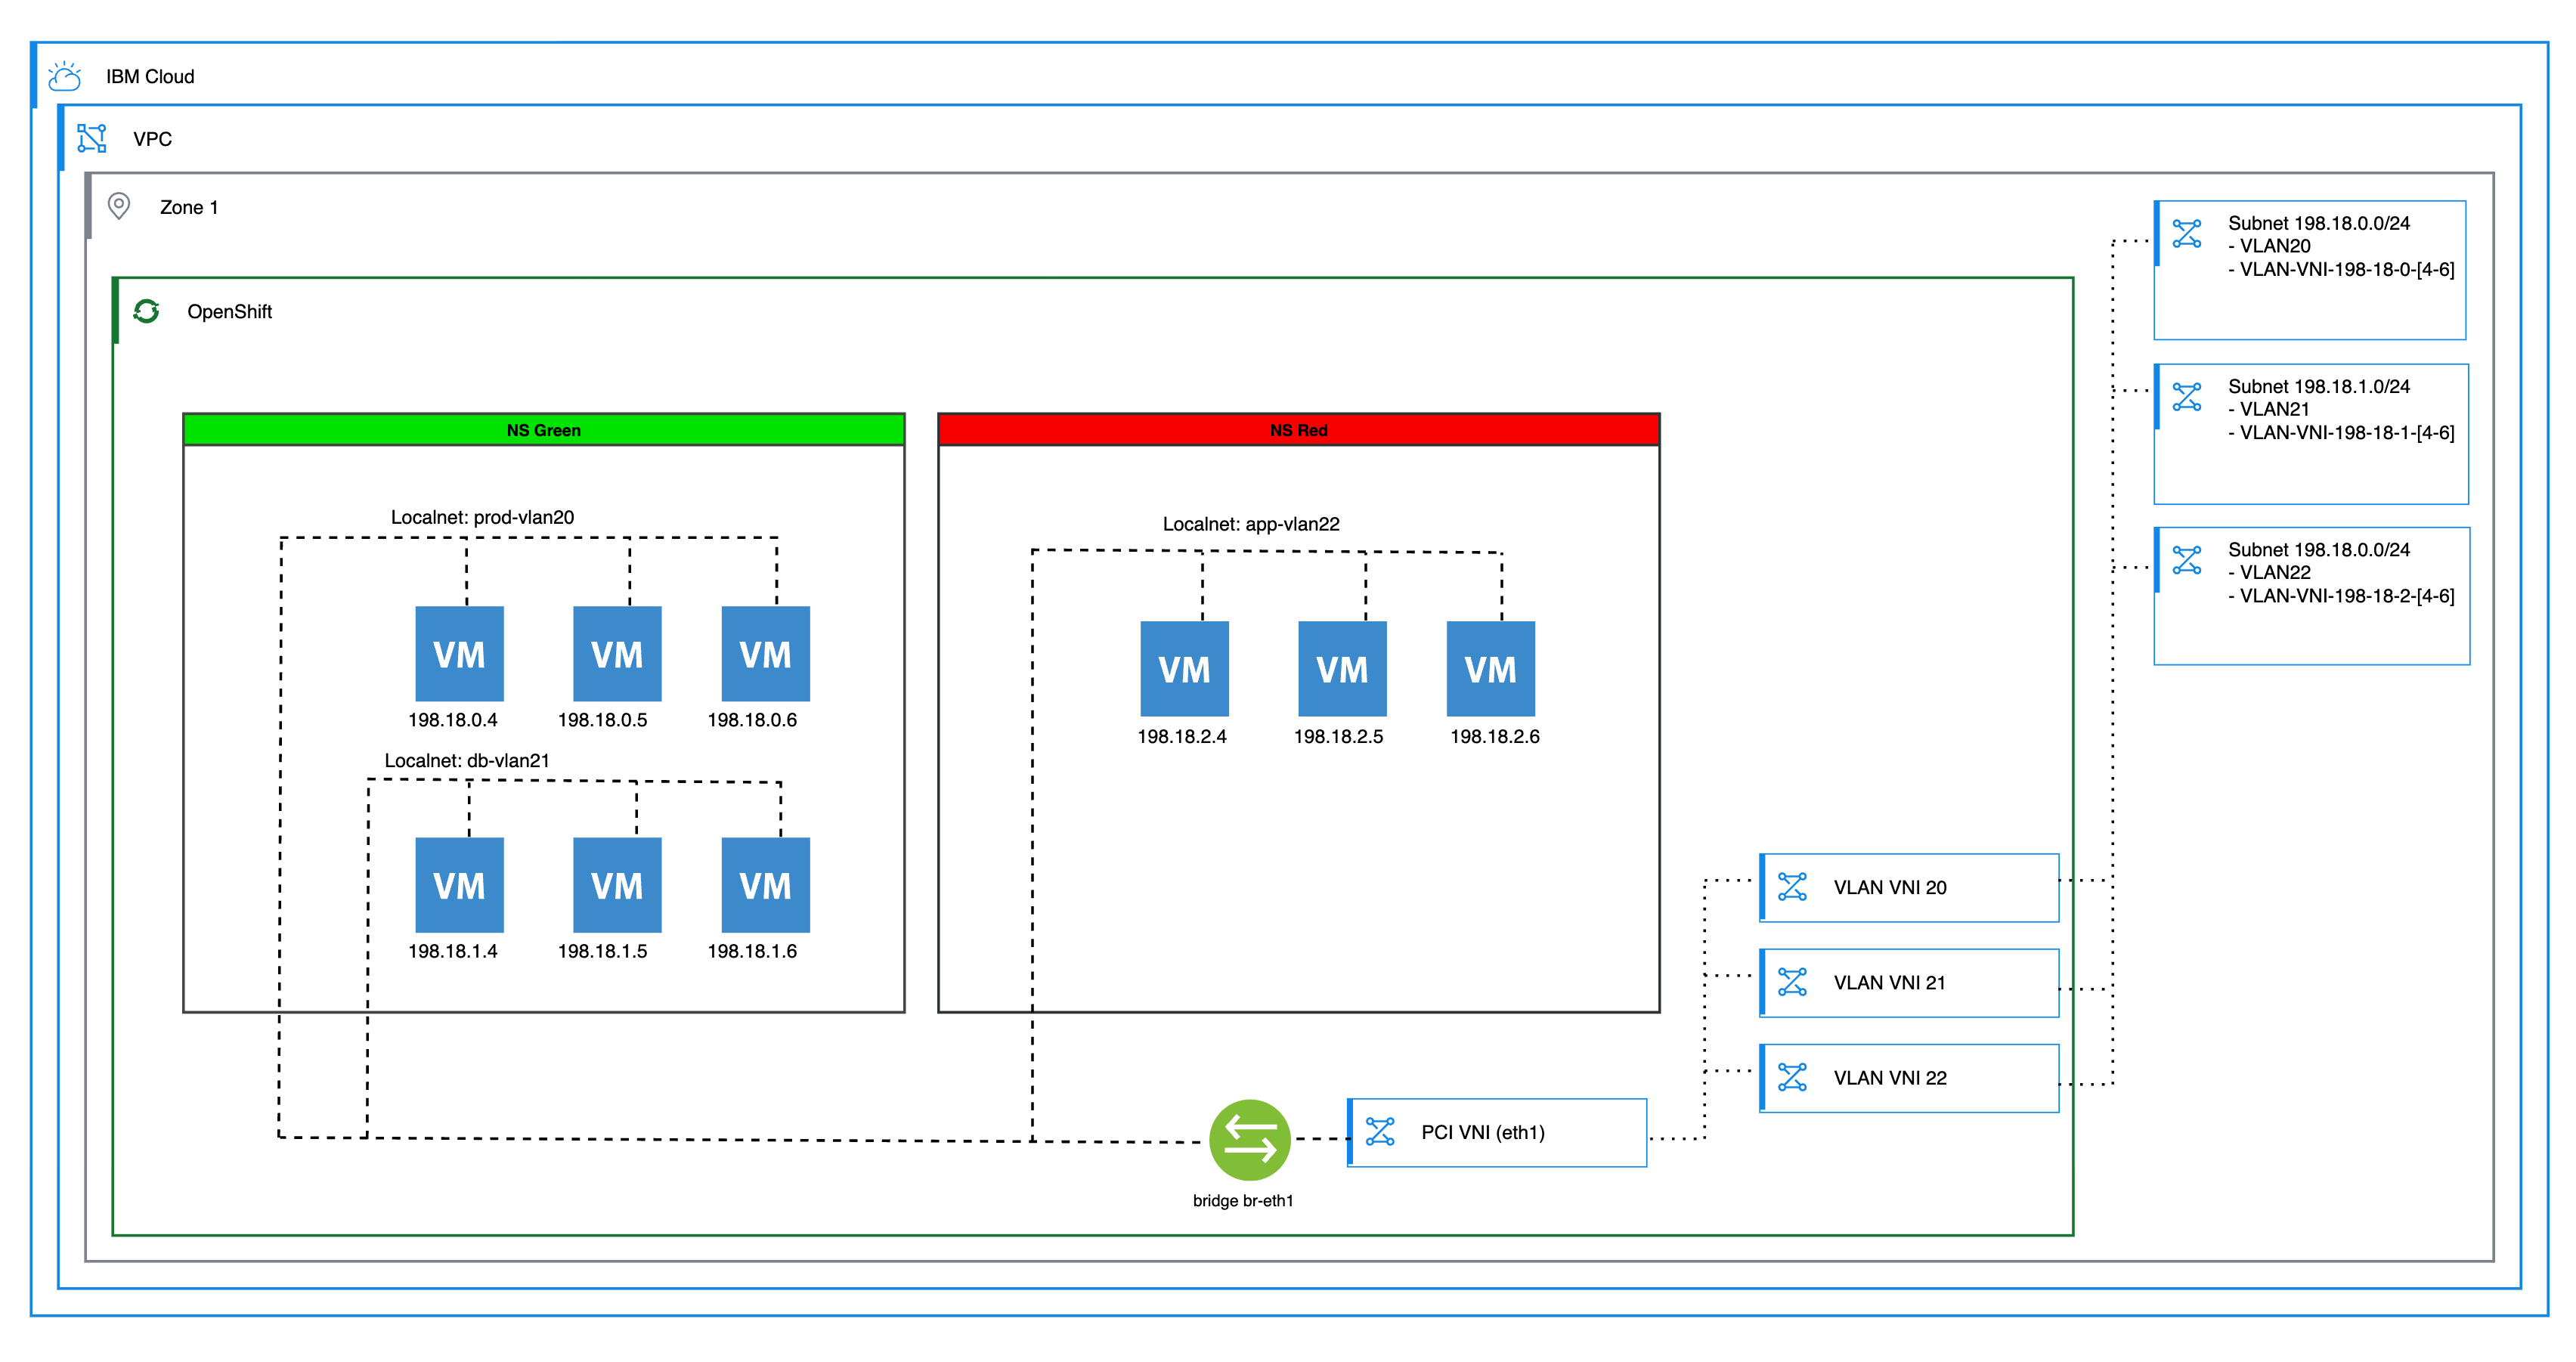
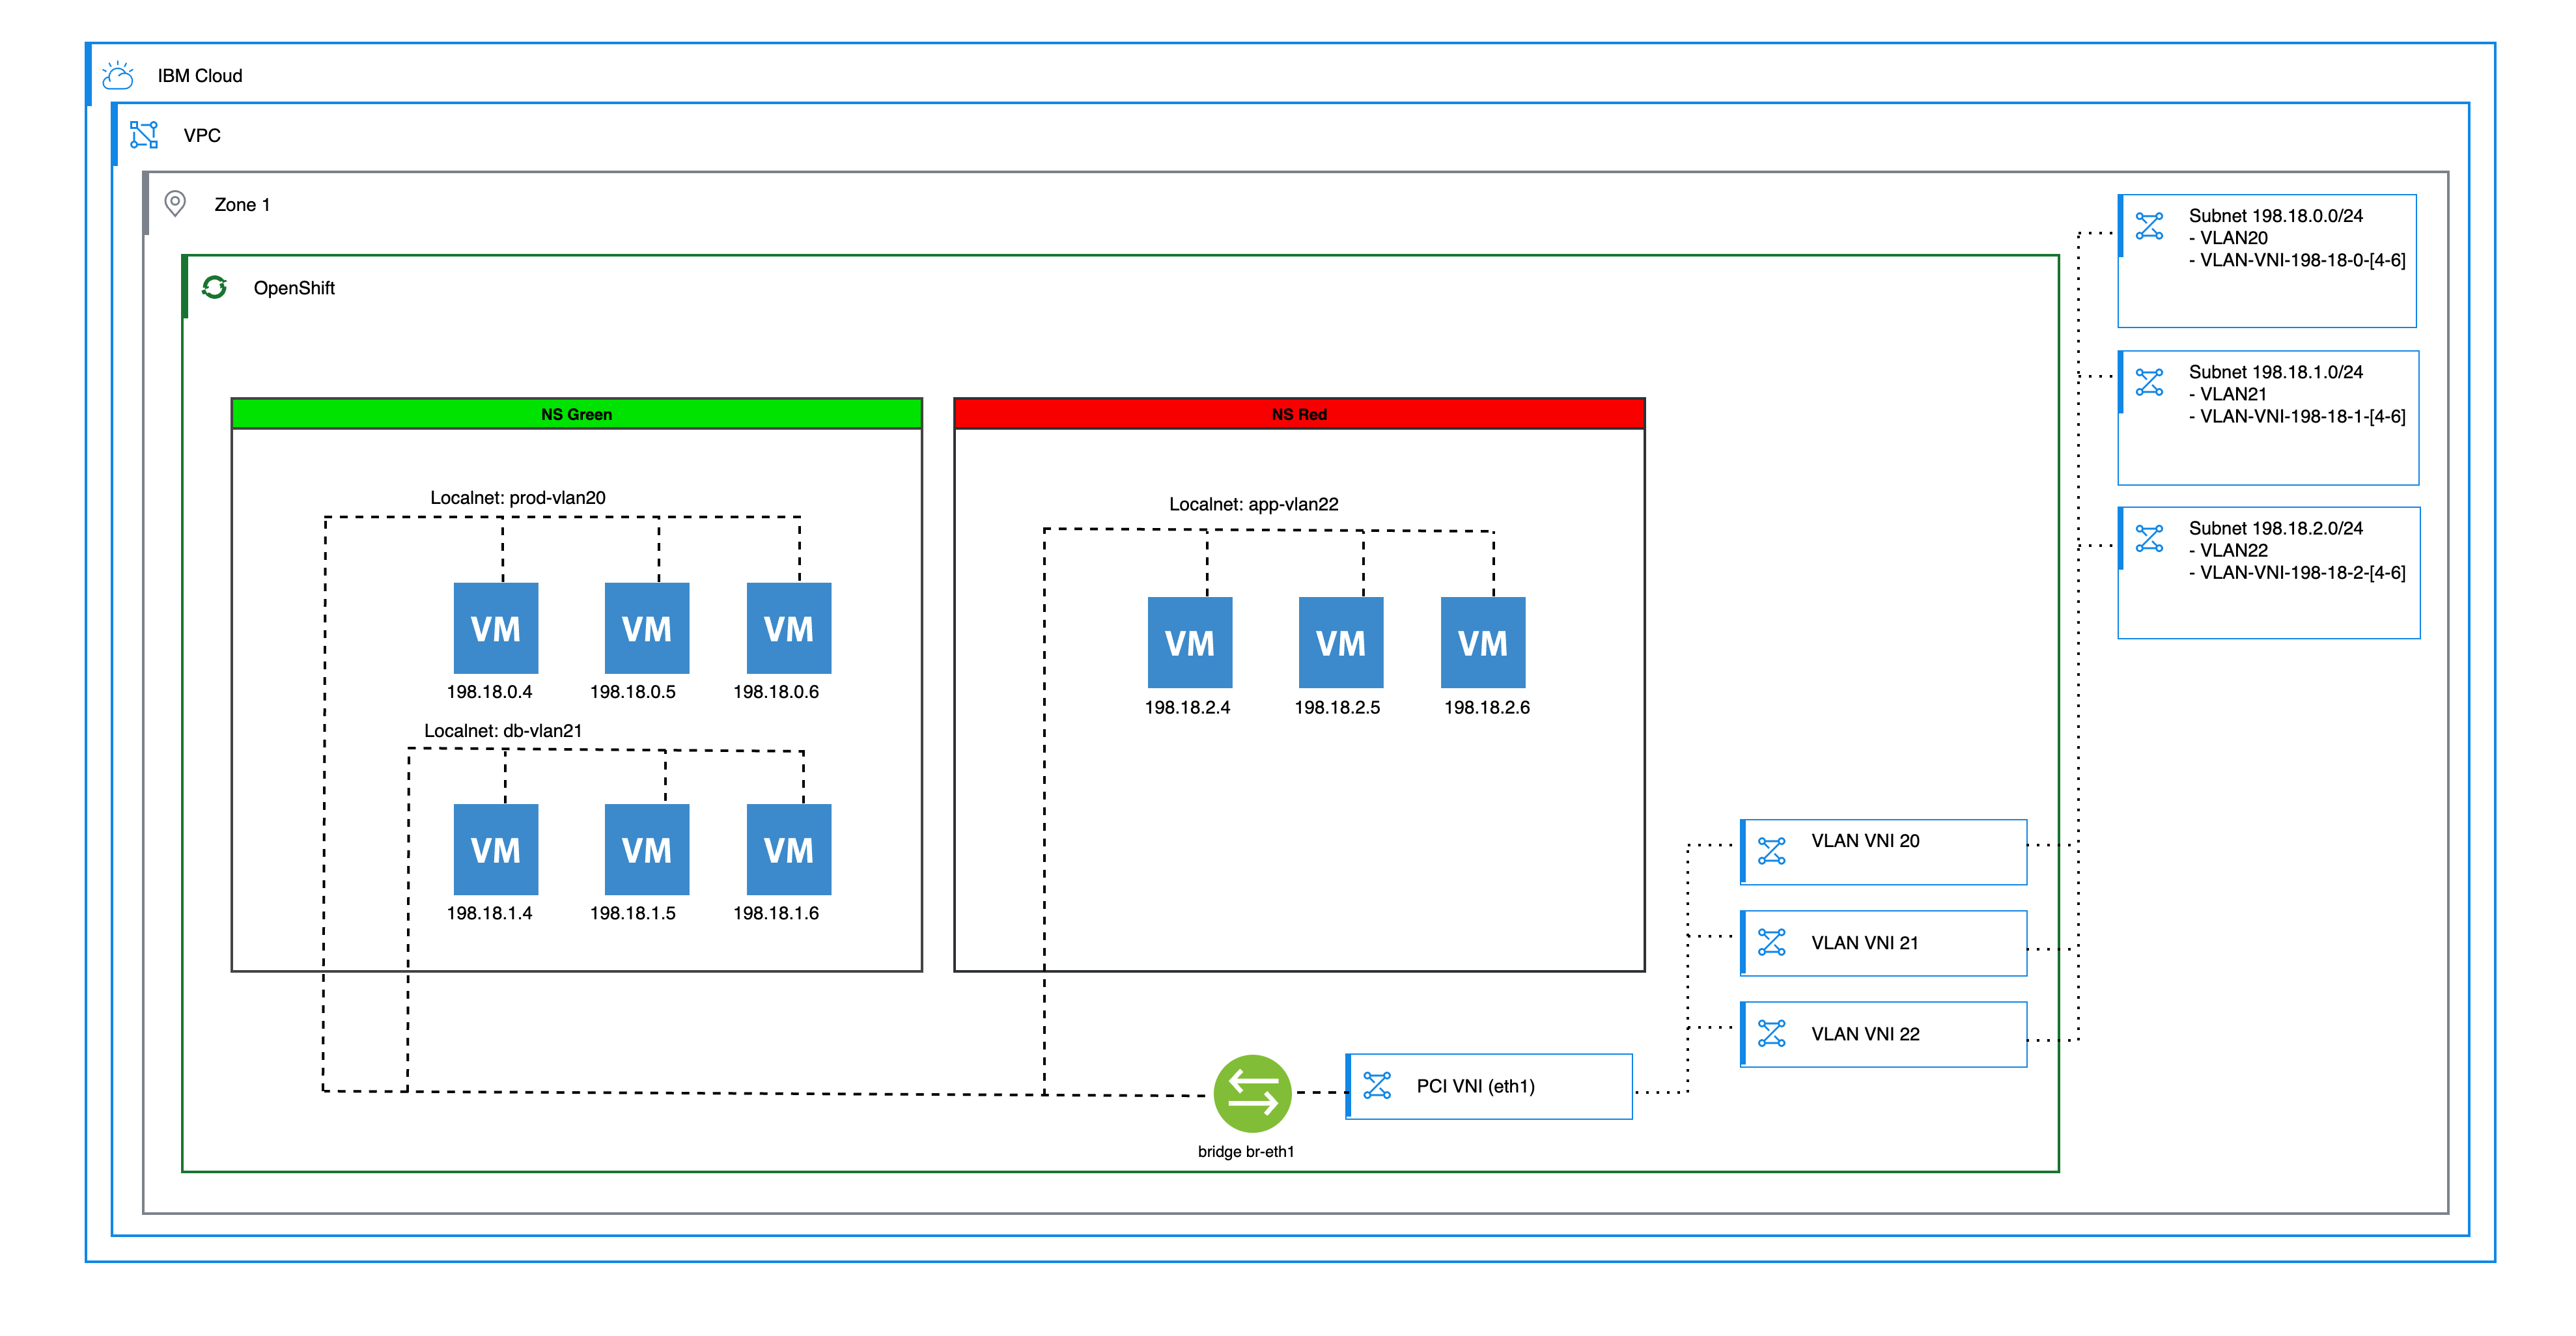
Update: 16-07-2026

diff --git a/tutorial/openshift/network-option-localnet.md b/tutorial/openshift/network-option-localnet.md
@@ -2,7 +2,7 @@
 
 copyright:
   years: 2026
-lastupdated: "2026-06-29"
+lastupdated: "2026-07-16"
 
 keywords: Red Hat OpenShift Virtualization, ROKS, VPC, Localnet, CUDN, UDN, VLAN, VNI, OVN
 
@@ -189,11 +189,11 @@ spec:
 ```
 {: codeblock}
 
-## Creating the VLAN VNIs in your VPC account
+## Creating reserved IPs and VNIs in your VPC account
 {: #localnet-vlan-vni}
 {: step}
 
-This step creates the `IP` reservation for each subnet and assigns a `MAC address` to each virtual network interface (`VNI`).
+This step creates a reserved IP in each subnet, then creates the VNI using that reserved IP and assigns a `MAC address` to each virtual network interface (`VNI`).
 
 Keep the following considerations in mind:
 
@@ -202,12 +202,31 @@ Keep the following considerations in mind:
 - You can run this step in bulk.
 - 256 VNIs per host is the cap. Keep usage less than 85% to allow for failover and migrations from other hosts.
 
+### Creating reserved IPs in each subnet
+{: #localnet-create-reserved-ips}
+
+First, create a reserved IP in each subnet for your virtual servers:
+
 ```sh
-ic is virtual-network-interface-create --name zone1-web00 --allow-ip-spoofing false --auto-delete false --protocol-state-filtering-mode disabled --enable-infrastructure-nat true --subnet zone1-vm-prod --vpc my-vpc --rip-address 198.18.0.20 --rip-auto-delete true --rip-name zone1-web00 --sgs handclap-roundworm-clique-eccentric --resource-group-name Default
+ic is subnet-reserved-ip-create zone1-vm-prod --address 198.18.0.20 --name zone1-web00 --auto-delete false
 
-ic is virtual-network-interface-create --name zone1-db00 --allow-ip-spoofing false --auto-delete false --protocol-state-filtering-mode disabled --enable-infrastructure-nat true --subnet zone1-vm-db --vpc my-vpc --rip-address 198.18.1.20 --rip-auto-delete true --rip-name zone1-db00 --sgs handclap-roundworm-clique-eccentric --resource-group-name Default
+ic is subnet-reserved-ip-create zone1-vm-db --address 198.18.1.20 --name zone1-db00 --auto-delete false
 
-ic is virtual-network-interface-create --name zone1-app00 --allow-ip-spoofing false --auto-delete false --protocol-state-filtering-mode disabled --enable-infrastructure-nat true --subnet zone1-vm-app --vpc my-vpc --rip-address 198.18.2.20 --rip-auto-delete true --rip-name zone1-app00 --sgs handclap-roundworm-clique-eccentric --resource-group-name Default
+ic is subnet-reserved-ip-create zone1-vm-app --address 198.18.2.20 --name zone1-app00 --auto-delete false
+```
+{: pre}
+
+### Creating VNIs using the reserved IPs
+{: #localnet-create-vnis}
+
+Now create the VNIs using the reserved IP names from the previous step:
+
+```sh
+ic is virtual-network-interface-create --name zone1-web00 --allow-ip-spoofing false --auto-delete false --protocol-state-filtering-mode disabled --enable-infrastructure-nat true --subnet zone1-vm-prod --vpc my-vpc --rip zone1-web00 --sgs handclap-roundworm-clique-eccentric --resource-group-name Default
+
+ic is virtual-network-interface-create --name zone1-db00 --allow-ip-spoofing false --auto-delete false --protocol-state-filtering-mode disabled --enable-infrastructure-nat true --subnet zone1-vm-db --vpc my-vpc --rip zone1-db00 --sgs handclap-roundworm-clique-eccentric --resource-group-name Default
+
+ic is virtual-network-interface-create --name zone1-app00 --allow-ip-spoofing false --auto-delete false --protocol-state-filtering-mode disabled --enable-infrastructure-nat true --subnet zone1-vm-app --vpc my-vpc --rip zone1-app00 --sgs handclap-roundworm-clique-eccentric --resource-group-name Default
 ```
 {: pre}
 
@@ -614,3 +633,39 @@ Run the following tests to verify the network setup.
 7. Ping from `198.18.1.20` to `198.18.0.20` and vice versa.
 
 8. Rerun the preceding tasks by using `198.18.2.20` and the jump virtual server's IP address.
+
+
+
+### Applying a multi-network policy and rerunning the tests
+{: #localnet-network-policy}
+
+Next, apply a multi-network policy that allows only TCP port 8080 on the `vlan20-prod` network. Save the following manifest to a file named `my-policy.yml` and apply it by running `oc apply -f my-policy.yml`.
+
+```yaml
+---
+apiVersion: k8s.ovn.org/v1alpha1
+kind: MultiNetworkPolicy
+metadata:
+  name: allow-8080-tcp
+  namespace: green
+  annotations:
+    k8s.v1.cni.cncf.io/policy-for: vlan20-prod
+spec:
+  podSelector: {}
+  ingress:
+    - ports:
+        - protocol: TCP
+          port: 8080
+  egress:
+    - ports:
+        - protocol: TCP
+          port: 8080
+  policyTypes:
+    - Ingress
+    - Egress
+```
+{: codeblock}
+
+Rerun the tests from the previous section against `plant-web00` on `vlan20-prod`. You should see that TCP port 8080 still works, but other traffic such as ping and the `iperf3` test on port 9090 no longer works for that network attachment.
+
+Remove the policy by running `oc delete -f my-policy.yml` to restore connectivity. The tests work again.

diff --git a/tutorial/openshift/network-option-layer2-primary.md b/tutorial/openshift/network-option-layer2-primary.md
@@ -2,7 +2,7 @@
 
 copyright:
   years: 2026
-lastupdated: "2026-07-13"
+lastupdated: "2026-07-16"
 lasttested: "[{LAST_TESTED_DATE}]"
 
 keywords: Red Hat OpenShift Virtualization, ROKS, VPC, Layer 2 Primary, CUDN, UDN, OVN, BGP, FRR, Layer 2 primary network OpenShift, CUDN OpenShift virtualization, User-Defined Network tutorial, OVN-Kubernetes Layer 2, BGP routing OpenShift, three-tier application OpenShift, VPC routing OpenShift, namespace networking, FRR BGP configuration, ClusterUserDefinedNetwork, three-tier application tutorial, FRR configuration, VPC static routes
@@ -53,11 +53,12 @@ The following table summarizes the example network layout.
 Each code block in this tutorial can be copied to a file and applied with `oc apply -f <file-name>.yml`. Some code blocks might cross page boundaries in PDF and Word formats, and some long lines might wrap in those formats.
 {: tip}
 
+
 ## Reviewing network prerequisites
 {: #layer2-primary-review-network-prerequisites}
 {: step}
 
-If you use {{site.data.keyword.redhat_openshift_notm}} Kubernetes Service, review [Red Hat OpenShift Kubernetes Service OVN UDN/CUDN network prerequisites](/docs/virtualization-solutions?topic=virtualization-solutions-udn-prerequisites) before you begin. {{site.data.keyword.redhat_openshift_notm}} Virtualization on {{site.data.keyword.vpc_short}} includes this configuration by default.
+If you use {{site.data.keyword.redhat_openshift_notm}} Kubernetes Service, review [Red Hat OpenShift Kubernetes Service OVN UDN/CUDN network prerequisites](/docs/virtualization-solutions?topic=virtualization-solutions-udn-prerequisites) before you begin.
 
 ## Creating a BGP peering or placeholder
 {: #layer2-primary-bgp}
@@ -264,6 +265,31 @@ The following manifests create the example three-tier application: four virtual 
 Update each manifest with a new password and `ssh_authorized_keys` value. The system allows logins by SSH public key only.
 {: important}
 
+### Reserving a specific IP address for a virtual server (optional)
+{: #layer2-primary-reserved-ip}
+
+By default, virtual servers on Layer 2 primary networks receive IP addresses through DHCP. While these DHCP leases persist for the life of the virtual server, you can optionally reserve a specific IP address by adding an annotation to the virtual server template metadata. The IP address is still assigned by DHCP, but the system ensures that the virtual server always receives the specified IP address.
+
+To reserve a specific IP address, add the following annotation to the `spec.template.metadata.annotations` section of your virtual server manifest:
+
+```yaml
+template:
+    metadata:
+      annotations:
+        kubevirt.io/pci-topology-version: v3
+        network.kubevirt.io/addresses: '{"green-net": ["10.203.0.100"]}'
+        vm.kubevirt.io/flavor: small
+...
+```
+{: codeblock}
+
+Replace `green-net` with the name of your network (`green-net` or `white-net` in this tutorial) and `10.203.0.100` with the desired IP address from the network's subnet range.
+
+The IP address must be within the subnet range defined for the network and must not conflict with other reserved addresses.
+{: important}
+
+The first virtual server example (`factory-web00`) demonstrates how to use a reserved IP address. The remaining virtual server examples use standard DHCP assignment without reserved IPs.
+
 Apply each manifest by running `oc apply -f <file-name>.yml`. Use the following links to jump directly to each manifest.
 
 - [Virtual server `factory-web00` in the `green` namespace](/docs/virtualization-solutions?topic=virtualization-solutions-layer-2-primary-udn-examples-for-red-hat-openshift-virtualization#layer2-primary-vm-factory-web00)
@@ -316,6 +342,7 @@ spec:
         vm.kubevirt.io/flavor: "small"
         vm.kubevirt.io/os: "centos-stream9"
         vm.kubevirt.io/workload: "server"
+        network.kubevirt.io/addresses: '{"green-net": ["10.203.0.100"]}'
       labels:
         kubevirt.io/domain: example
         kubevirt.io/size: "small"
@@ -336,7 +363,7 @@ spec:
           interfaces:
             - binding:
                 name: l2bridge
-              name: default
+              name: green-net
               model: virtio
           networkInterfaceMultiqueue: true
           rng: {}
@@ -344,7 +371,7 @@ spec:
           guest: "2Gi"
       hostname: "factory-web00"
       networks:
-        - name: default
+        - name: green-net
           pod: {}
       terminationGracePeriodSeconds: 180
       volumes:
@@ -428,7 +455,7 @@ spec:
           interfaces:
             - binding:
                 name: l2bridge
-              name: default
+              name: green-net
               model: virtio
           networkInterfaceMultiqueue: true
           rng: {}
@@ -436,7 +463,7 @@ spec:
           guest: "2Gi"
       hostname: "factory-web01"
       networks:
-        - name: default
+        - name: green-net
           pod: {}
       terminationGracePeriodSeconds: 180
       volumes:
@@ -520,7 +547,7 @@ spec:
           interfaces:
             - binding:
                 name: l2bridge
-              name: default
+              name: green-net
               model: virtio
           networkInterfaceMultiqueue: true
           rng: {}
@@ -528,7 +555,7 @@ spec:
           guest: "2Gi"
       hostname: "factory-db00"
       networks:
-        - name: default
+        - name: green-net
           pod: {}
       terminationGracePeriodSeconds: 180
       volumes:
@@ -612,7 +639,7 @@ spec:
           interfaces:
             - binding:
                 name: l2bridge
-              name: default
+              name: green-net
               model: virtio
           networkInterfaceMultiqueue: true
           rng: {}
@@ -620,7 +647,7 @@ spec:
           guest: "2Gi"
       hostname: "factory-db01"
       networks:
-        - name: default
+        - name: green-net
           pod: {}
       terminationGracePeriodSeconds: 180
       volumes:
@@ -704,7 +731,7 @@ spec:
           interfaces:
             - binding:
                 name: l2bridge
-              name: default
+              name: white-net
               model: virtio
           networkInterfaceMultiqueue: true
           rng: {}
@@ -712,7 +739,7 @@ spec:
           guest: "2Gi"
       hostname: "factory-app00"
       networks:
-        - name: default
+        - name: white-net
           pod: {}
       terminationGracePeriodSeconds: 180
       volumes:
@@ -796,7 +823,7 @@ spec:
           interfaces:
             - binding:
                 name: l2bridge
-              name: default
+              name: white-net
               model: virtio
           networkInterfaceMultiqueue: true
           rng: {}
@@ -804,7 +831,7 @@ spec:
           guest: "2Gi"
       hostname: "factory-app01"
       networks:
-        - name: default
+        - name: white-net
           pod: {}
       terminationGracePeriodSeconds: 180
       volumes: